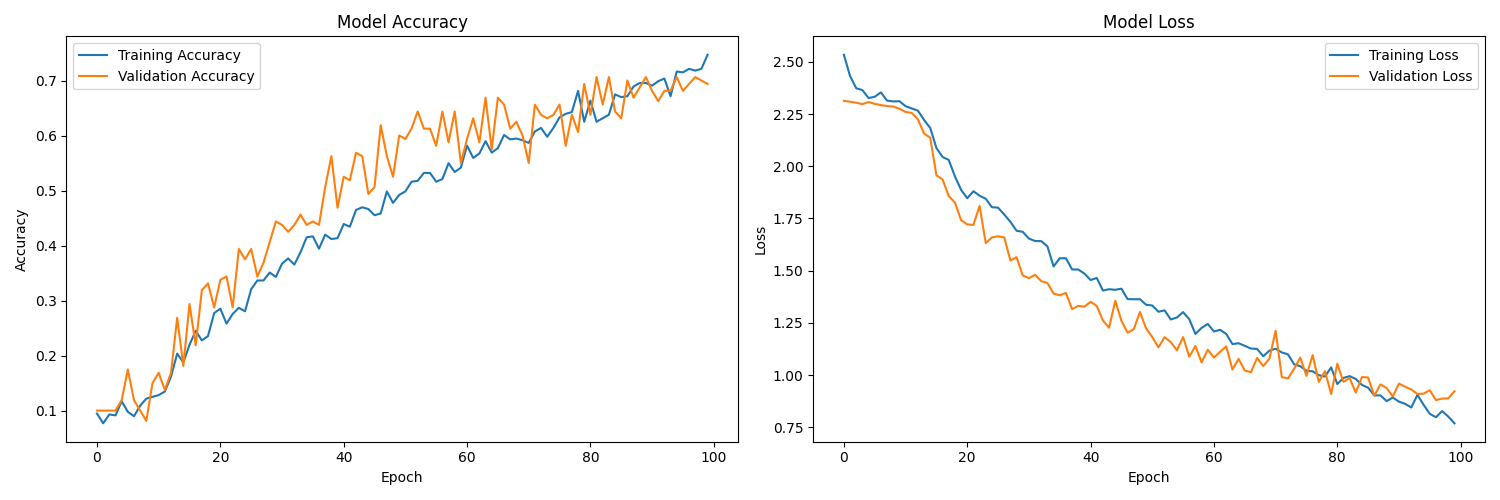
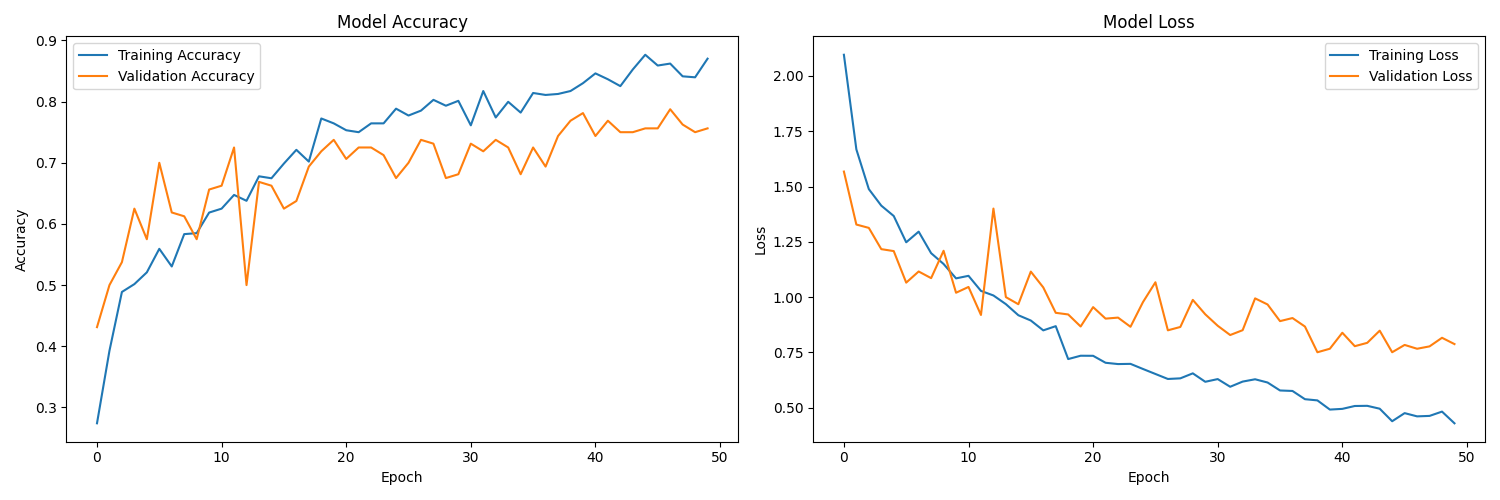
Update training configuration and enhance model architecture: reduced training epochs from 100 to 50 in train.py, improved classifier by integrating a CNN model, and added advanced data augmentation techniques in data_generator.py. Updated confusion matrix and training history images to reflect chan

diff --git a/model/data_generator.py b/model/data_generator.py
@@ -91,6 +91,75 @@ class TimeSegmentedSpectrogramGenerator(tf.keras.utils.Sequence):
     def _augment_segments(self, segments):
         # Add time-sequence aware augmentations here
         # For example, small frequency shifts that are consistent across segments
-        if np.random.random() < 0.5:
-            segments = segments + np.random.normal(0, 0.01, segments.shape)
-        return segments 
+        if self.augment:
+            if np.random.random() < 0.5:
+                segments = self._random_frequency_shift(segments)
+            if np.random.random() < 0.5:
+                segments = self._add_noise(segments)
+            if np.random.random() < 0.5:
+                segments = self._time_stretch(segments)
+            if np.random.random() < 0.5:
+                segments = self._pitch_shift(segments)
+        return segments
+    
+    def _random_frequency_shift(self, segments):
+        # Shift the frequency of the segments by a random amount
+        max_shift = segments.shape[1] // 20  # Shift up to 5% of the frequency range
+        shift = np.random.randint(-max_shift, max_shift)
+        
+        # Create a copy to avoid modifying the original array
+        shifted_segments = np.zeros_like(segments)
+        
+        if shift > 0:
+            shifted_segments[:, shift:, :] = segments[:, :-shift, :]
+        elif shift < 0:
+            shifted_segments[:, :shift, :] = segments[:, -shift:, :]
+        else:
+            shifted_segments = segments
+        
+        return shifted_segments
+    
+    def _add_noise(self, segments, noise_factor=0.02):
+        # Add random noise to the segments
+        noise = np.random.normal(0, noise_factor, segments.shape)
+        noisy_segments = segments + noise
+        return noisy_segments
+    
+    def _time_stretch(self, segments, rate=None):
+        # Time stretch the segments by a small random amount
+        if rate is None:
+            rate = np.random.uniform(0.8, 1.2)  # Stretch between 80% and 120%
+        
+        stretched_segments = []
+        for segment in segments:
+            # Resize along the time axis (axis=1) to the target dimension
+            stretched_segment = tf.image.resize(
+                segment,
+                (segment.shape[0], self.dim[1]),  # Resize to target time dimension
+                method=tf.image.ResizeMethod.BILINEAR,
+                preserve_aspect_ratio=False  # Force exact dimensions
+            )
+            stretched_segments.append(stretched_segment)
+        
+        return tf.stack(stretched_segments)
+    
+    def _pitch_shift(self, segments, semitones=None):
+        # Pitch shift the segments by a small random amount
+        if semitones is None:
+            semitones = np.random.uniform(-2, 2)  # Shift up to 2 semitones
+        
+        # Convert semitones to a frequency ratio
+        ratio = 2 ** (semitones / 12.0)
+        
+        pitch_shifted_segments = []
+        for segment in segments:
+            # Resize along the frequency axis (axis=0) to the target dimension
+            pitch_shifted_segment = tf.image.resize(
+                segment,
+                (self.dim[0], segment.shape[1]),  # Resize to target frequency dimension
+                method=tf.image.ResizeMethod.BILINEAR,
+                preserve_aspect_ratio=False  # Force exact dimensions
+            )
+            pitch_shifted_segments.append(pitch_shifted_segment)
+        
+        return tf.stack(pitch_shifted_segments) 

diff --git a/model/classifier.py b/model/classifier.py
@@ -89,11 +89,11 @@ def create_time_aware_classifier(input_shape, num_classes, num_segments):
     """
     # CNN to process each segment
     segment_input = tf.keras.layers.Input(shape=input_shape)
-    x = tf.keras.layers.Conv2D(32, (3, 3), activation='relu', padding='same')(segment_input)
-    x = tf.keras.layers.MaxPooling2D((2, 2))(x)
-    x = tf.keras.layers.Conv2D(64, (3, 3), activation='relu', padding='same')(x)
-    x = tf.keras.layers.MaxPooling2D((2, 2))(x)
-    x = tf.keras.layers.Conv2D(128, (3, 3), activation='relu', padding='same')(x)
+    
+    # Use the CNN model from cnn.py
+    cnn = create_cnn_model(input_shape)
+    
+    x = cnn(segment_input)
     x = tf.keras.layers.GlobalAveragePooling2D()(x)
     
     # Create the time-distributed model
@@ -105,17 +105,12 @@ def create_time_aware_classifier(input_shape, num_classes, num_segments):
     # Apply the segment model to each time segment
     processed_segments = tf.keras.layers.TimeDistributed(segment_model)(main_input)
     
-    # Add attention mechanism
-    attention_output = tf.keras.layers.MultiHeadAttention(
-        num_heads=4, key_dim=32
-    )(processed_segments, processed_segments)
-    
-    # Add & Norm
-    x = tf.keras.layers.Add()([processed_segments, attention_output])
-    x = tf.keras.layers.LayerNormalization()(x)
+    # Add attention mechanism using MultiHeadSelfAttention from attention.py
+    attention_layer = MultiHeadSelfAttention(embed_dim=128, num_heads=4)
+    attention_output = attention_layer(processed_segments)
     
     # Global temporal pooling
-    x = tf.keras.layers.GlobalAveragePooling1D()(x)
+    x = tf.keras.layers.GlobalAveragePooling1D()(attention_output)
     
     # Final classification
     x = tf.keras.layers.Dense(256, activation='relu')(x)

diff --git a/train.py b/train.py
@@ -91,11 +91,11 @@ def main():
     # Parameters
     SPECTROGRAMS_DIR = '/Users/julienh/Desktop/SDS/SDS-CP018-music-classifier/Data/mel_spectrograms_images'
     BATCH_SIZE = 16  # Might need to reduce batch size due to larger data
-    EPOCHS = 100
+    EPOCHS = 50
     IMG_HEIGHT = 128
     IMG_WIDTH = 128
     CHANNELS = 1
-    NUM_SEGMENTS = 7  # For 30-second audio split into 4-second segments
+    NUM_SEGMENTS = 7 # For 30-second audio split into 4-second segments
     
     # Prepare data
     print("Preparing data...")
